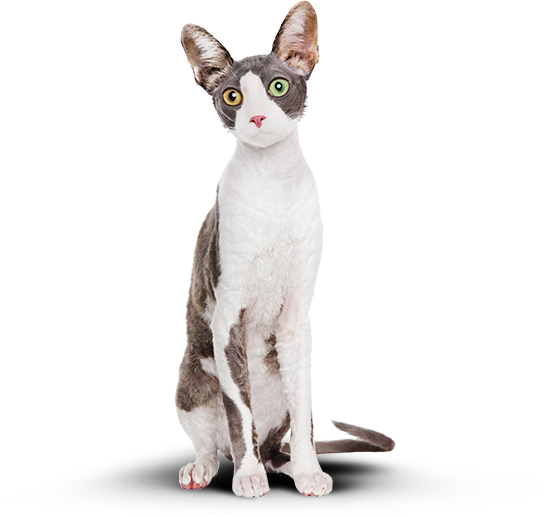
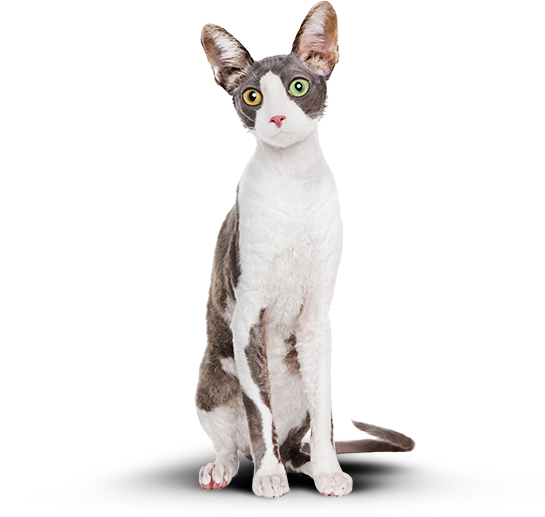
Коррекция блока до/после; добавление неполного функционала

Changed region(s): [[0.2183, 0.0, 0.7798, 0.9903]]

diff --git a/index.html b/index.html
@@ -134,13 +134,17 @@
           </div>
         </div>
         <div class="before-after__desktop-wrapper">
-        <div class="before-after__image-wrapper">
-          <img class="before-after__image before-after__image--fat-cat" src="img/before-desktop.png" width="" height="" alt="Толстый Борис" />
-          <img class="before-after__image before-after__image--slim-cat" src="img/after-desktop.png" width="" height="" alt="Худой Борис" />
-        </div>
+          <div class="before-after__image-wrapper">
+            <div class="before-after__fat-cat-wrapper">
+              <img class="before-after__image before-after__image--fat-cat" src="img/before-desktop.png" width="" height="" alt="Толстый Борис" />
+            </div>
+            <div class="before-after__slim-cat-wrapper">
+              <img class="before-after__image before-after__image--slim-cat" src="img/after-desktop.png" width="" height="" alt="Худой Борис" />
+            </div>
+          </div>
           <div class="before-after__toggle-wrapper">
             <button class="before-after__toggle-left">Было</button>
-            <input class = "before-after__range-toggle" type="range" min="0" max="100" id="line" oninput="pictureRange()" value="50">
+            <input class="before-after__range-toggle" type="range" min="0" max="100" id="line" oninput="pictureRange()" value="50">
             <!-- <span class="before-after__range-toggle"></span> -->
             <button class="before-after__toggle-right">Стало</button>
           </div>
@@ -236,9 +240,7 @@
           <li class="social__item">
             <a class="social__link social_link--facebook" href="https://www.facebook.com/htmlacademy">
               <span class="visually-hidden">Мы в Фейсбуке</span>
-              <svg version="1.1" id="Capa_1" xmlns="http://www.w3.org/2000/svg" xmlns:xlink="http://www.w3.org/1999/xlink" x="0px" y="0px"
-                    width="20" height="20" viewBox="0 0 792 792" style="fill:#666666";
-                xml:space="preserve">
+              <svg version="1.1" id="Capa_1" xmlns="http://www.w3.org/2000/svg" xmlns:xlink="http://www.w3.org/1999/xlink" x="0px" y="0px" width="20" height="20" viewBox="0 0 792 792" style="fill:#666666" ; xml:space="preserve">
                 <g>
                   <g id="facebook">
                     <g>
@@ -265,24 +267,24 @@
           <span class="copyright__link-text">HTML Academy</span>
           <span class="copyright__link-image">
             <svg xmlns:dc="http://purl.org/dc/elements/1.1/" xmlns:cc="http://creativecommons.org/ns#" xmlns:rdf="http://www.w3.org/1999/02/22-rdf-syntax-ns#" xmlns:svg="http://www.w3.org/2000/svg" xmlns="http://www.w3.org/2000/svg"
-            viewBox="0 0 35.926666 45.453331" height="34" width="27" xml:space="preserve" id="svg2" version="1.1">
-            <metadata id="metadata8">
-              <rdf:RDF>
-                <cc:Work rdf:about="">
-                  <dc:format>image/svg+xml</dc:format>
-                  <dc:type rdf:resource="http://purl.org/dc/dcmitype/StillImage" />
-                </cc:Work>
-              </rdf:RDF>
-            </metadata>
-            <defs id="defs6" />
-            <g transform="matrix(1.3333333,0,0,-1.3333333,0,45.453599)" id="g10">
-              <g transform="translate(13.473,34.0902)" id="g12">
-                <path id="path14" style="fill:#666666;fill-opacity:1;fill-rule:nonzero;stroke:none"
-                  d="m 0,0 -13.473,-1.412 v -24.662 l 13.474,-8.016 13.43,7.99 0.041,0.024 V -1.412 L 0.147,-0.017 Z m -11.548,-3.147 11.549,1.212 11.547,-1.212 v -8.98 H 11.546 L 0.022,-5.334 0.021,-5.23 -0.066,-5.28 -0.154,-5.224 v -0.109 l -11.394,-6.785 z m 0.109,-10.475 11.371,6.834 11.518,-6.712 -4.479,-2.641 -7.093,4.221 -0.014,-1.414 5.904,-3.513 -0.86,-0.508 -5.03,2.993 -0.014,-1.415 3.827,-2.275 -0.782,-0.524 -3.031,1.787 -0.014,-1.413 1.853,-1.09 -1.8,-1.081 z m 19.582,-8.549 -0.011,5.177 3.416,2.037 V -24.979 L 0,-31.85 l -11.548,6.871 v 9.852 l 11.411,-6.792 0.016,-1.044 -7.942,4.728 -0.015,-1.416 7.979,-4.795 0.019,-1.076 -7.974,4.74 -0.013,-1.414 8.021,-4.822 0.047,-0.024 z" />
+              viewBox="0 0 35.926666 45.453331" height="34" width="27" xml:space="preserve" id="svg2" version="1.1">
+              <metadata id="metadata8">
+                <rdf:RDF>
+                  <cc:Work rdf:about="">
+                    <dc:format>image/svg+xml</dc:format>
+                    <dc:type rdf:resource="http://purl.org/dc/dcmitype/StillImage" />
+                  </cc:Work>
+                </rdf:RDF>
+              </metadata>
+              <defs id="defs6" />
+              <g transform="matrix(1.3333333,0,0,-1.3333333,0,45.453599)" id="g10">
+                <g transform="translate(13.473,34.0902)" id="g12">
+                  <path id="path14" style="fill:#666666;fill-opacity:1;fill-rule:nonzero;stroke:none"
+                    d="m 0,0 -13.473,-1.412 v -24.662 l 13.474,-8.016 13.43,7.99 0.041,0.024 V -1.412 L 0.147,-0.017 Z m -11.548,-3.147 11.549,1.212 11.547,-1.212 v -8.98 H 11.546 L 0.022,-5.334 0.021,-5.23 -0.066,-5.28 -0.154,-5.224 v -0.109 l -11.394,-6.785 z m 0.109,-10.475 11.371,6.834 11.518,-6.712 -4.479,-2.641 -7.093,4.221 -0.014,-1.414 5.904,-3.513 -0.86,-0.508 -5.03,2.993 -0.014,-1.415 3.827,-2.275 -0.782,-0.524 -3.031,1.787 -0.014,-1.413 1.853,-1.09 -1.8,-1.081 z m 19.582,-8.549 -0.011,5.177 3.416,2.037 V -24.979 L 0,-31.85 l -11.548,6.871 v 9.852 l 11.411,-6.792 0.016,-1.044 -7.942,4.728 -0.015,-1.416 7.979,-4.795 0.019,-1.076 -7.974,4.74 -0.013,-1.414 8.021,-4.822 0.047,-0.024 z" />
+                </g>
               </g>
-            </g>
-          </svg>
-        </span>
+            </svg>
+          </span>
         </a>
       </div>
     </footer>

diff --git a/css/style.css b/css/style.css
@@ -780,7 +780,8 @@ img {
     background-color: transparent;
     background-image: url(../img/background-ea.jpg), url("../img/background-f2.jpg");
     background-repeat: no-repeat, repeat-x;
-    background-position: right bottom, left bottom; }
+    background-position: right bottom, left bottom;
+    background-size: 50% 462px, 100% 462px; }
   .before-after__title {
     font-size: 60px;
     line-height: 60px;
@@ -824,13 +825,32 @@ img {
     width: 190px;
     text-align: end; }
   .before-after__image-wrapper {
-    width: 677px;
+    width: 570px;
+    height: 517px;
     margin: 0 auto;
     margin-bottom: 13px; }
-  .before-after__image--fat-cat {
+  .before-after__fat-cat-wrapper {
+    width: 50%;
+    display: block;
+    height: auto;
+    position: absolute;
+    bottom: 0px;
+    left: 0px;
+    overflow: hidden; }
+  .before-after__slim-cat-wrapper {
+    position: absolute;
+    height: auto;
+    overflow: hidden;
+    width: 50%;
+    direction: rtl;
+    bottom: 0px;
     right: 0px; }
+  .before-after__image--fat-cat {
+    position: static;
+    max-width: 545px; }
   .before-after__image--slim-cat {
-    margin-left: auto; }
+    margin: 0;
+    max-width: 545px; }
   .before-after__toggle-wrapper {
     display: flex;
     justify-content: center;

diff --git a/sass/before-after.scss b/sass/before-after.scss
@@ -126,6 +126,7 @@
     background-image: url(../img/background-ea.jpg), url("../img/background-f2.jpg");
     background-repeat: no-repeat, repeat-x;
     background-position: right bottom, left bottom;
+    background-size: 50% 462px, 100% 462px;
   }
 
   .before-after__title {
@@ -175,17 +176,40 @@
   }
 
  .before-after__image-wrapper {
-   width: 677px;
+   width: 570px;
+   height: 517px;
    margin: 0 auto;
    margin-bottom: 13px;
   }
 
-  .before-after__image--fat-cat {
+  .before-after__fat-cat-wrapper {
+    width: 50%;
+    display: block;
+    height: auto;
+    position: absolute;
+    bottom: 0px;
+    left: 0px;
+    overflow: hidden;
+  }
+
+  .before-after__slim-cat-wrapper {
+    position: absolute;
+    height: auto;
+    overflow: hidden;
+    width: 50%;
+    direction: rtl;
+    bottom: 0px;
     right: 0px;
+    }
+
+  .before-after__image--fat-cat {
+    position: static;
+    max-width: 545px;
   }
 
   .before-after__image--slim-cat {
-    margin-left: auto;
+    margin: 0;
+    max-width: 545px;
   }
 
   .before-after__toggle-wrapper {

diff --git a/js/script.js b/js/script.js
@@ -21,8 +21,21 @@ navToggle.addEventListener('click', function() {
 let inputRange = document.querySelector('.before-after__range-toggle');
 let buttonLeft = document.querySelector('.before-after__toggle-left');
 let buttonRight = document.querySelector('.before-after__toggle-right');
+let value = document.querySelector('.before-after__range-toggle').value;
+let fatCatWrapper = document.querySelector('.before-after__fat-cat-wrapper');
+let slimCatWrapper = document.querySelector('.before-after__slim-cat-wrapper');
+
 function pictureRange() {
-  
+  //  debugger;
+  let fullWidth = 570;
+  value = document.querySelector('.before-after__range-toggle').value;
+  //fatCatWrapper.offsetWidth = parseInt(value);
+  let fatCatWidth = (fullWidth * value) / 100;
+  let slimCatWidth = fullWidth - (fullWidth * value) / 100;
+  //let width = (fullWidth * fatCatWrapper.offsetWidth) / 100;
+  //let width = (fatCatWrapper.offsetWidth * 100) / fullWidth;
+  fatCatWrapper.style.width = `${fatCatWidth}px`;
+  slimCatWrapper.style.width = `${slimCatWidth}px`;
 }
 
 
